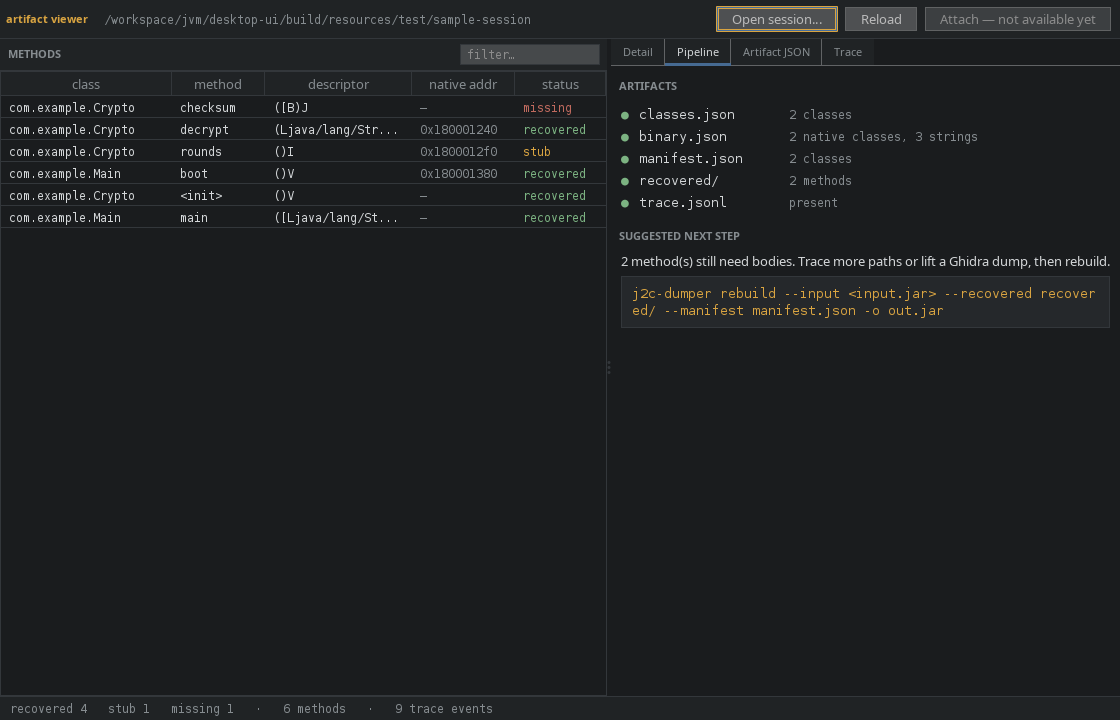
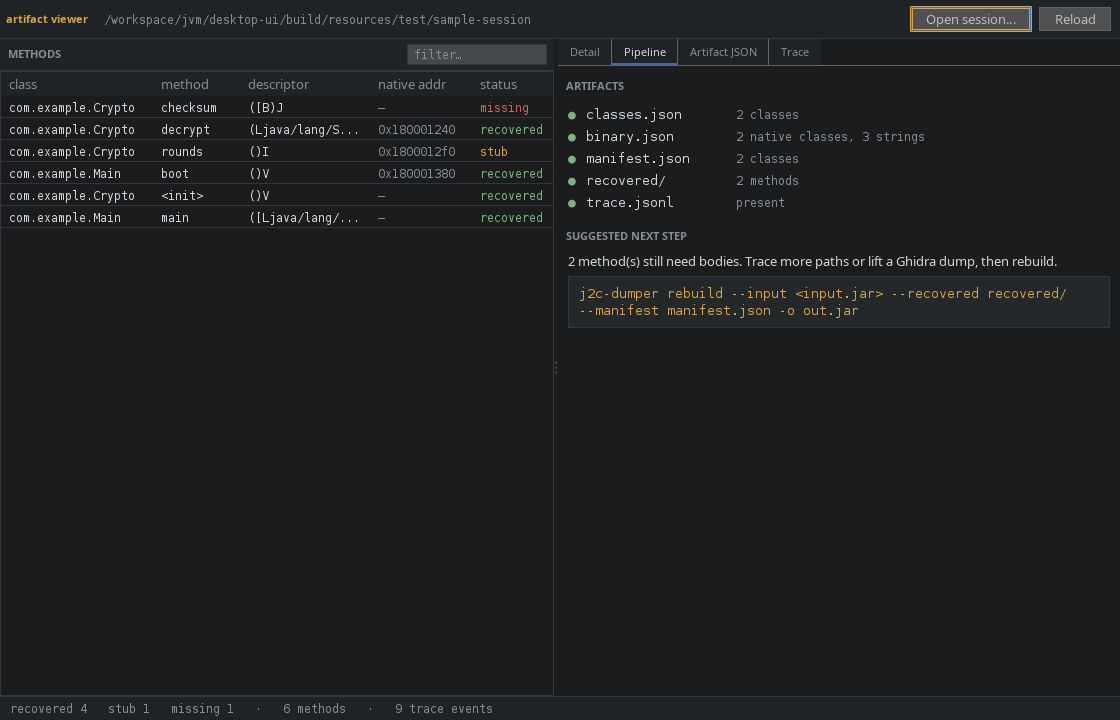
desktop-ui: visual pass — widen detail pane, wrap commands, drop Attach button
- Rebalance method/detail split so recovered listings and the header
  comment fit without horizontal scrolling
- Wrap the suggested command at word boundaries instead of mid-token
- Remove the permanently-disabled 'Attach — not available yet' button
- Left-align table headers to match left-aligned data
- Stabilize the split divider position across states
- Make screenshot temp paths deterministic; drop dead renderer branch
- Add docs/reviews/desktop-ui-visual.md

diff --git a/jvm/desktop-ui/src/main/kotlin/j2c/desktop/ViewerFrame.kt b/jvm/desktop-ui/src/main/kotlin/j2c/desktop/ViewerFrame.kt
@@ -99,10 +99,6 @@ class ViewerFrame : JFrame("recovery artifact viewer") {
 
         val open = JButton("Open session…").apply { addActionListener { chooseDirectory() } }
         val reload = JButton("Reload").apply { addActionListener { reload() } }
-        val attach = JButton("Attach — not available yet").apply {
-            isEnabled = false
-            toolTipText = "Live process attach is not implemented yet. Use the CLI to capture a trace."
-        }
 
         val right = JPanel().apply {
             layout = BoxLayout(this, BoxLayout.X_AXIS)
@@ -111,8 +107,6 @@ class ViewerFrame : JFrame("recovery artifact viewer") {
             add(open)
             add(Box.createHorizontalStrut(6))
             add(reload)
-            add(Box.createHorizontalStrut(6))
-            add(attach)
         }
 
         bar.add(left, BorderLayout.CENTER)
@@ -146,7 +140,10 @@ class ViewerFrame : JFrame("recovery artifact viewer") {
 
     private fun buildSessionCard(): JComponent {
         val split = JSplitPane(JSplitPane.HORIZONTAL_SPLIT, buildMethodPanel(), buildDetailPanel())
-        split.resizeWeight = 0.6
+        // Share resize evenly. The initial divider follows the two panels'
+        // preferred widths (below), so it lands in the same place in every
+        // state instead of jumping when the content changes.
+        split.resizeWeight = 0.5
         split.border = null
         split.background = Theme.BG
         return split
@@ -170,8 +167,9 @@ class ViewerFrame : JFrame("recovery artifact viewer") {
             }
         }
         // class | method | descriptor(flex) | native addr | status
-        val widths = intArrayOf(175, 95, 150, 105, 92)
+        val widths = intArrayOf(150, 85, 128, 100, 78)
         for (i in widths.indices) methodTable.columnModel.getColumn(i).preferredWidth = widths[i]
+        Ui.leftAlignHeader(methodTable)
 
         filterField.putClientProperty("JTextField.placeholderText", "filter…")
         filterField.font = Theme.monoSmall
@@ -198,8 +196,9 @@ class ViewerFrame : JFrame("recovery artifact viewer") {
         p.add(Ui.scroll(methodTable), BorderLayout.CENTER)
         // Fixed preferred width keeps the divider stable no matter which
         // detail tab is showing (long recovered listings would otherwise
-        // pull the split over on first layout).
-        p.preferredSize = Dimension(660, 640)
+        // pull the split over on first layout). The columns above sum to a
+        // little under this, so nothing is clipped.
+        p.preferredSize = Dimension(548, 640)
         return p
     }
 
@@ -229,13 +228,14 @@ class ViewerFrame : JFrame("recovery artifact viewer") {
         traceTable.columnModel.getColumn(1).preferredWidth = 70
         traceTable.columnModel.getColumn(2).preferredWidth = 90
         traceTable.columnModel.getColumn(3).preferredWidth = 360
+        Ui.leftAlignHeader(traceTable)
 
         tabs.font = Theme.sansSmall
         tabs.addTab("Detail", Ui.scroll(detailArea))
         tabs.addTab("Pipeline", buildPipelinePanel())
         tabs.addTab("Artifact JSON", Ui.scroll(jsonArea))
         tabs.addTab("Trace", Ui.scroll(traceTable))
-        tabs.preferredSize = Dimension(440, 640)
+        tabs.preferredSize = Dimension(556, 640)
         return tabs
     }
 
@@ -256,7 +256,9 @@ class ViewerFrame : JFrame("recovery artifact viewer") {
             background = Theme.RAISED
             foreground = Theme.ACCENT
             lineWrap = true
-            wrapStyleWord = false
+            // Wrap at spaces so a long command breaks between arguments
+            // instead of chopping a path or flag in half.
+            wrapStyleWord = true
             border = BorderFactory.createCompoundBorder(
                 BorderFactory.createLineBorder(Theme.LINE),
                 BorderFactory.createEmptyBorder(8, 10, 8, 10),

diff --git a/jvm/desktop-ui/src/test/kotlin/j2c/desktop/ShotExporter.kt b/jvm/desktop-ui/src/test/kotlin/j2c/desktop/ShotExporter.kt
@@ -56,13 +56,15 @@ fun main(args: Array<String>) {
     shot("01-empty") { /* opens with no session */ }
 
     shot("02-no-artifacts") { f ->
-        val dir = Files.createTempDirectory("j2c-empty-shot")
+        // Fixed path (not createTempDirectory) so the header line is stable
+        // and the committed screenshot doesn't churn on every re-render.
+        val dir = freshDir("j2c-viewer-shot-empty")
         f.openDirectory(dir)
     }
 
     shot("03-missing-artifacts") { f ->
         // Only classes.json present: pipeline shows what's missing + next step.
-        val dir = Files.createTempDirectory("j2c-partial-shot")
+        val dir = freshDir("j2c-viewer-shot-partial")
         Files.copy(sample.resolve("classes.json"), dir.resolve("classes.json"))
         f.openDirectory(dir)
     }
@@ -86,6 +88,19 @@ fun main(args: Array<String>) {
     println("done -> ${outDir.toAbsolutePath()}")
     // Swing keeps AWT threads alive; exit explicitly.
     System.exit(0)
+}
+
+/**
+ * A stable, empty temp directory with a fixed name. Recreated each run so
+ * the screenshots that show its path stay byte-for-byte reproducible.
+ */
+private fun freshDir(name: String): Path {
+    val dir = Path.of(System.getProperty("java.io.tmpdir"), name)
+    if (Files.exists(dir)) {
+        Files.walk(dir).sorted(Comparator.reverseOrder()).forEach { Files.deleteIfExists(it) }
+    }
+    Files.createDirectories(dir)
+    return dir
 }
 
 /**

diff --git a/jvm/desktop-ui/src/main/kotlin/j2c/desktop/Components.kt b/jvm/desktop-ui/src/main/kotlin/j2c/desktop/Components.kt
@@ -61,7 +61,7 @@ class MethodCellRenderer(private val model: MethodTableModel) : DefaultTableCell
             column == 3 -> Theme.DIM
             else -> Theme.TEXT
         }
-        horizontalAlignment = if (column == 3 || column == 4) SwingConstants.LEFT else SwingConstants.LEFT
+        horizontalAlignment = SwingConstants.LEFT
         return c
     }
 }
@@ -112,6 +112,23 @@ object Ui {
         border = BorderFactory.createLineBorder(Theme.LINE)
         viewport.background = Theme.BG
         background = Theme.BG
+    }
+
+    /**
+     * Left-align a table's column headers so they sit over the (left-aligned)
+     * data instead of floating centred. Keeps the look-and-feel's own header
+     * painting; only nudges the text and pads it to match the cell inset.
+     */
+    fun leftAlignHeader(table: JTable) {
+        val base = table.tableHeader.defaultRenderer
+        table.tableHeader.defaultRenderer = javax.swing.table.TableCellRenderer { t, value, selected, focused, row, col ->
+            val c = base.getTableCellRendererComponent(t, value, selected, focused, row, col)
+            (c as? JLabel)?.apply {
+                horizontalAlignment = SwingConstants.LEFT
+                border = BorderFactory.createEmptyBorder(0, 8, 0, 8)
+            }
+            c
+        }
     }
 
     fun dimText(text: String, color: Color = Theme.DIM): JLabel = JLabel(text).apply {

diff --git a/docs/reviews/desktop-ui-visual.md b/docs/reviews/desktop-ui-visual.md
@@ -1,0 +1,73 @@
+# Desktop viewer — visual review
+
+Review of the Swing desktop viewer (`jvm/desktop-ui`, PR #8, branch
+`cursor/swing-desktop-viewer-7389`). This was a look-and-usability pass,
+not a feature change. Everything was checked against rendered PNGs in
+`jvm/desktop-ui/screenshots/`, re-exported with
+`xvfb-run ./gradlew :desktop-ui:exportShots`.
+
+## Issues found
+
+1. **Detail pane too narrow — code clipped.** The method/detail split gave
+   the detail side only ~440px, so even the short header comment and most
+   instruction lines ran off the right edge and needed horizontal
+   scrolling to read (`05-method-detail.png`).
+2. **Suggested command wrapped mid-token.** The command box wrapped on any
+   character, so paths and flags broke in half: `--recovered recover` /
+   `ed/`, and `inspect-binary ... -o bina` / `ry.json`
+   (`02`, `03`, `04`).
+3. **"Attach — not available yet" toolbar button.** A button that is
+   permanently disabled and advertises a feature that does not exist. It
+   reads like a roadmap teaser and adds toolbar noise.
+4. **Table headers centered over left-aligned data.** Every table
+   (methods and trace) painted its column titles centered while the cell
+   text was left-aligned, so headings floated off from their columns.
+5. **Divider position jumped between states.** The split divider landed in
+   a different place depending on which session was open (compare the old
+   `02` vs `04`).
+6. **Screenshots not reproducible.** The empty/partial shots opened
+   `Files.createTempDirectory(...)`, so the header showed a random
+   `/tmp/...` path and `02`/`03` changed on every re-export. Also a dead
+   `if/else` branch in the method cell renderer (both arms returned the
+   same alignment).
+
+## Issues fixed
+
+1. Rebalanced the split: method panel preferred width 660 → 548, detail
+   tabs 440 → 556, resize weight 0.6 → 0.5, and trimmed the method column
+   widths to fit. The detail header and the common instruction lines now
+   fit without scrolling.
+2. Command box now wraps at word boundaries (`wrapStyleWord = true`), so a
+   long command breaks between arguments. The two sample commands that used
+   to break mid-token now wrap cleanly or fit on one line.
+3. Removed the Attach button. The toolbar is now just **Open session…**
+   and **Reload**. Dropped the matching paragraph from the module README.
+4. Left-aligned the column headers on both tables (small shared helper,
+   `Ui.leftAlignHeader`) so titles sit over their data.
+5. With the fixed preferred widths and even resize weight, the divider now
+   lands in the same place in every state.
+6. The screenshot exporter writes to fixed temp dirs
+   (`j2c-viewer-shot-empty` / `-partial`), so re-exports are stable.
+   Removed the dead alignment branch in the renderer.
+
+## Leftovers
+
+- One long instruction in the Detail view (the `INVOKESTATIC ... xor(...)`
+  line, ~90 chars) still runs past the right edge and needs the horizontal
+  scrollbar. This is normal for a disassembly-style listing; wrapping
+  bytecode lines would hurt readability more than the scroll does. Left
+  as-is.
+- The **Open session…** button shows the focus ring in the screenshots
+  because it is the default-focused button when the window opens. This is
+  ordinary focus state, not a highlight, and moves as soon as the user
+  interacts. Left as-is.
+
+## Build / test notes
+
+- The module targets JDK 21 while the rest of `jvm/` targets JDK 17. On a
+  box with only JDK 21 the build fails to resolve the `:common` toolchain.
+  Installing a JDK 17 alongside 21 lets Gradle's toolchain auto-detection
+  build it; no gradle change was needed, so the JDK split was left alone
+  (out of scope for this pass).
+- `./gradlew :desktop-ui:test` passes.
+- Screenshots re-exported after the changes.

diff --git a/jvm/desktop-ui/README.md b/jvm/desktop-ui/README.md
@@ -64,9 +64,9 @@ window.
 Empty, missing-artifact, and "folder has no artifacts" states are all
 handled and point at the first command to run.
 
-The **Attach** button in the toolbar is disabled and labelled "not
-available yet". Live process attach is not implemented; capture a trace
-with the CLI instead.
+The viewer never runs a recovery step. Capturing a trace, reading the
+native library, and rebuilding all happen through the CLI; the Pipeline
+tab shows the exact command for the next step.
 
 ## Visual style (keep it this way)
 
